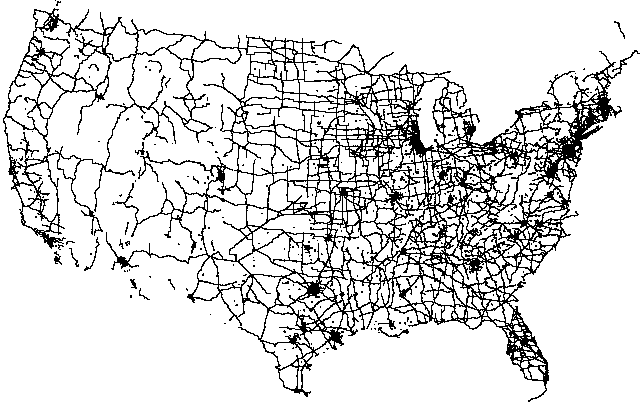
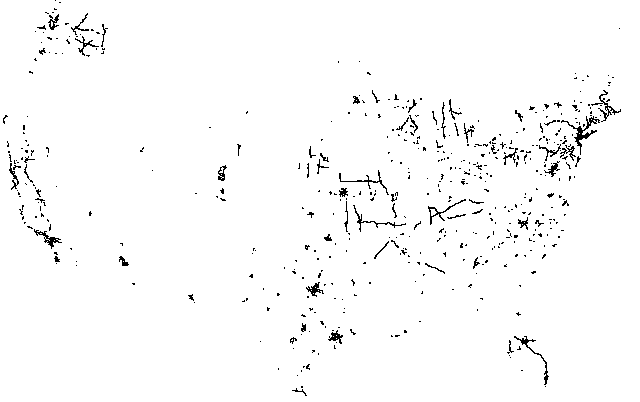
adjustments and pretty network maps

diff --git a/transport.py b/transport.py
@@ -58,6 +58,7 @@ water_img_path = os.path.join(cd,r'water_map.png')
 water_detailed_img_path = os.path.join(cd,r'water_detailed_map.png')
 plt.savefig(water_img_path,bbox_inches='tight',pad_inches=0,dpi=100)
 plt.savefig(water_detailed_img_path,bbox_inches='tight',pad_inches=0,dpi=125)
+plt.clf()
 
 #ROAD
 road_path = os.path.join(cd,r'pa_nhs',r'PA_NHS.shp')
@@ -66,9 +67,8 @@ road_map = gpd.read_file(road_path)
 road_map = road_map[~(road_map['State_Code'] == 2) & ~(road_map['State_Code'] == 15)]
 road_map  = road_map[road_map.geometry.is_valid]
 interstate_map = road_map[(road_map['F_SYSTEM'] == 1)]
-highway_map = road_map[(road_map['F_SYSTEM'] == 2) | (road_map['F_SYSTEM'] == 3)]
-other_road_map = road_map[(road_map['F_SYSTEM'] == 4) | (road_map['F_SYSTEM'] == 5) \
-                          | (road_map['F_SYSTEM'] == 6)]
+highway_map = road_map[(road_map['F_SYSTEM'] == 2)]
+other_road_map = road_map[(road_map['F_SYSTEM'] == 3)]
 warnings.filterwarnings("ignore")
 interstate_map = interstate_map.to_crs("EPSG:5070")
 highway_map = highway_map.to_crs("EPSG:5070")
@@ -89,6 +89,7 @@ interstate_img_path = os.path.join(cd,r'interstate_map.png')
 interstate_detailed_img_path = os.path.join(cd,r'interstate_detailed_map.png')
 plt.savefig(interstate_img_path,bbox_inches='tight',pad_inches=0,dpi=100)
 plt.savefig(interstate_detailed_img_path,bbox_inches='tight',pad_inches=0,dpi=125)
+plt.clf()
 #highway picture
 fig = plt.figure()
 ax = fig.add_axes([0, 0, 1, 1])
@@ -101,6 +102,7 @@ highway_img_path = os.path.join(cd,r'highway_map.png')
 highway_detailed_img_path = os.path.join(cd,r'highway_detailed_map.png')
 plt.savefig(highway_img_path,bbox_inches='tight',pad_inches=0,dpi=100)
 plt.savefig(highway_detailed_img_path,bbox_inches='tight',pad_inches=0,dpi=125)
+plt.clf()
 #other road picture
 fig = plt.figure()
 ax = fig.add_axes([0, 0, 1, 1])
@@ -113,7 +115,6 @@ other_road_img_path = os.path.join(cd,r'other_road_map.png')
 other_road_detailed_img_path = os.path.join(cd,r'other_road_detailed_map.png')
 plt.savefig(other_road_img_path,bbox_inches='tight',pad_inches=0,dpi=100)
 plt.savefig(other_road_detailed_img_path,bbox_inches='tight',pad_inches=0,dpi=125)
-
 
 #RAIL
 rail_path = os.path.join(cd,r'Railroads-shp',r'Railroads.shp')
@@ -152,6 +153,7 @@ other_rail_img_path = os.path.join(cd,r'other_rail_map.png')
 other_rail_detailed_img_path = os.path.join(cd,r'other_detailed_rail_map.png')
 plt.savefig(other_rail_img_path,bbox_inches='tight',pad_inches=0,dpi=100)
 plt.savefig(other_rail_detailed_img_path,bbox_inches='tight',pad_inches=0,dpi=125)
+plt.clf()
 
 #LOCATIONS
 if not os.path.exists(os.path.join(cd,r'pairs')):
@@ -173,7 +175,6 @@ cz_loc = pd.DataFrame(
     })
 cz_loc_out_path = os.path.join(cd,r'cz_loc.csv')
 cz_loc.to_csv(cz_loc_out_path,index=False)
-
 warnings.filterwarnings("default")
 cz_areas = list(zip(cz_lon,cz_lat))
 cz_distances = []
@@ -208,6 +209,7 @@ cz_centroids_df.plot(ax=ax,marker=',',color='red',markersize=1,antialiased=False
 bounding_box.plot(ax=ax,facecolor="none",linewidth=0.1,edgecolor='white',antialiased=False)
 cz_cent_img_path = os.path.join(cd,r'cz_cent_map.png')
 plt.savefig(cz_cent_img_path,bbox_inches='tight',pad_inches=0,dpi=100)
+plt.clf()
 #Commodity Flow Survery (CFS) Areas
 cfs_map_path = os.path.join(cd_dotdot,r'cfs_cz_shapefile_and_distances',r'cfs07',r'cfs07.shp')
 cfs_map = gpd.read_file(cfs_map_path)
@@ -220,7 +222,6 @@ warnings.filterwarnings("ignore")
 cfs_centroids_df.geometry = cfs_centroids_df.centroid
 cfs_lon = cfs_centroids_df.centroid.x.tolist()
 cfs_lat = cfs_centroids_df.centroid.y.tolist()
-
 cfs_loc = pd.DataFrame(
     {'cfs_code': cfs_codes,
      'cfs_lon': cfs_lon,
@@ -263,6 +264,7 @@ cfs_centroids_df.plot(ax=ax,marker=',',color='red',markersize=1,antialiased=Fals
 bounding_box.plot(ax=ax,facecolor="none",linewidth=0.1,edgecolor='white',antialiased=False)
 cfs_cent_img_path = os.path.join(cd,r'cfs_cent_map.png')
 plt.savefig(cfs_cent_img_path,bbox_inches='tight',pad_inches=0,dpi=100)
+plt.clf()
 #Counties (cty) 
 cty_codes = county_map['fips'].tolist()
 cty_centroids_df = county_map[['geometry']].copy()
@@ -278,7 +280,6 @@ cty_loc = pd.DataFrame(
     })
 cty_loc_out_path = os.path.join(cd,r'cty_loc.csv')
 cty_loc.to_csv(cty_loc_out_path,index=False)
-
 warnings.filterwarnings("default")
 cty_areas = list(zip(cty_lon,cty_lat))
 cty_distances = []
@@ -313,4 +314,34 @@ cty_centroids_df.plot(ax=ax,marker=',',color='red',markersize=1,antialiased=Fals
 bounding_box.plot(ax=ax,facecolor="none",linewidth=0.1,edgecolor='white',antialiased=False)
 cty_cent_img_path = os.path.join(cd,r'cty_cent_map.png')
 plt.savefig(cty_cent_img_path,bbox_inches='tight',pad_inches=0,dpi=100)
+plt.clf()
+
+#PRETTY NETWORK MAPS
+#road and water
+fig = plt.figure()
+ax = fig.add_axes([0, 0, 1, 1])
+ax.axis('off')
+bounding_box.plot(ax=ax,facecolor="blue",linewidth=0,edgecolor='none')
+us_land_map.plot(ax=ax,facecolor="white",linewidth=0.1,edgecolor='none')
+other_road_map.plot(ax=ax,facecolor="none",linewidth=0.1,edgecolor='0.8')
+highway_map.plot(ax=ax,facecolor="none",linewidth=0.1,edgecolor='0.4')
+interstate_map.plot(ax=ax,facecolor="none",linewidth=0.25,edgecolor='0')
+water_map.plot(ax=ax,facecolor="none",linewidth=0.5,edgecolor='blue')
+pretty_road_img_path = os.path.join(cd,r'road_network.png')
+plt.savefig(pretty_road_img_path,bbox_inches='tight',pad_inches=0,dpi=300)
+plt.clf()
+
+#rail and water
+fig = plt.figure()
+ax = fig.add_axes([0, 0, 1, 1])
+ax.axis('off')
+bounding_box.plot(ax=ax,facecolor="blue",linewidth=0,edgecolor='none')
+us_land_map.plot(ax=ax,facecolor="white",linewidth=0.1,edgecolor='none')
+other_rail_map.plot(ax=ax,facecolor="none",linewidth=0.15,edgecolor='0.4')
+main_rail_map.plot(ax=ax,facecolor="none",linewidth=0.25,edgecolor='0')
+water_map.plot(ax=ax,facecolor="none",linewidth=0.5,edgecolor='blue')
+pretty_rail_img_path = os.path.join(cd,r'rail_network.png')
+plt.savefig(pretty_rail_img_path,bbox_inches='tight',pad_inches=0,dpi=300)
+plt.clf()
+
 
